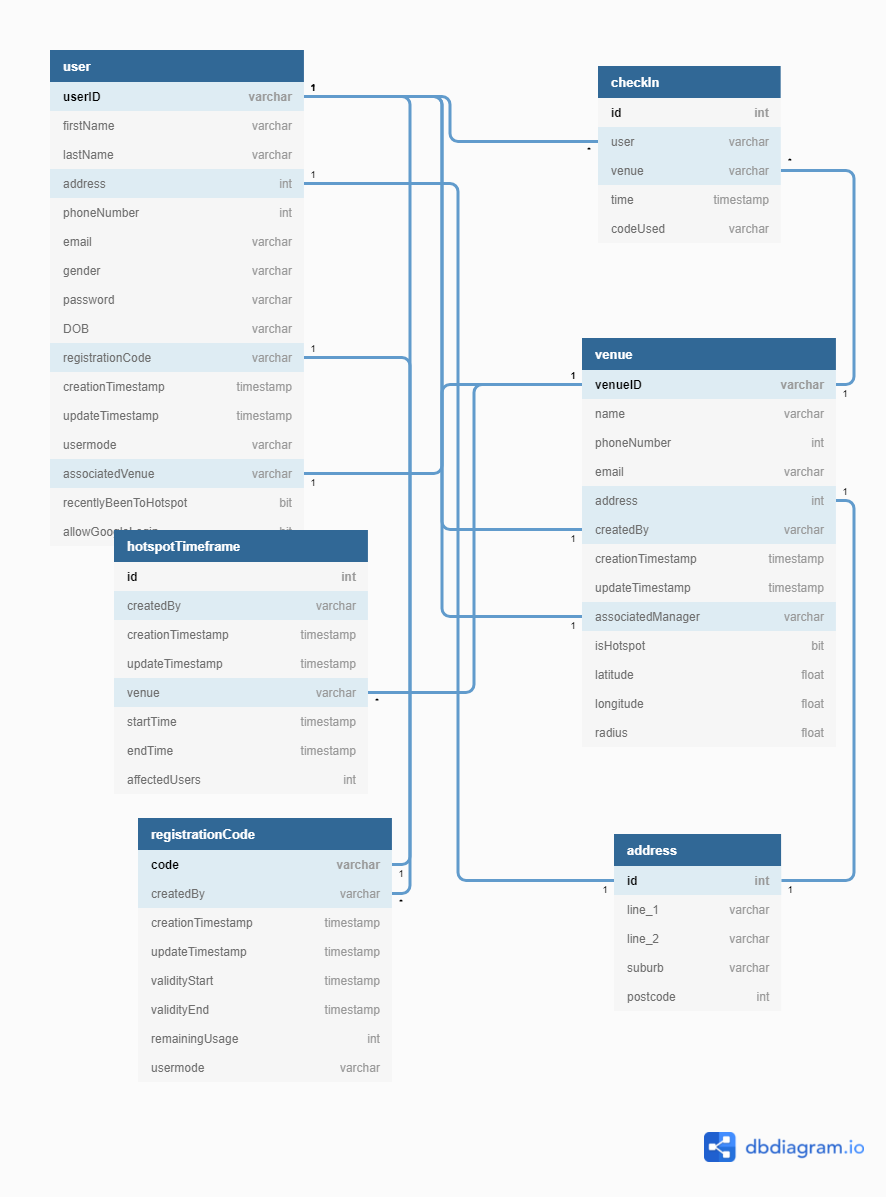
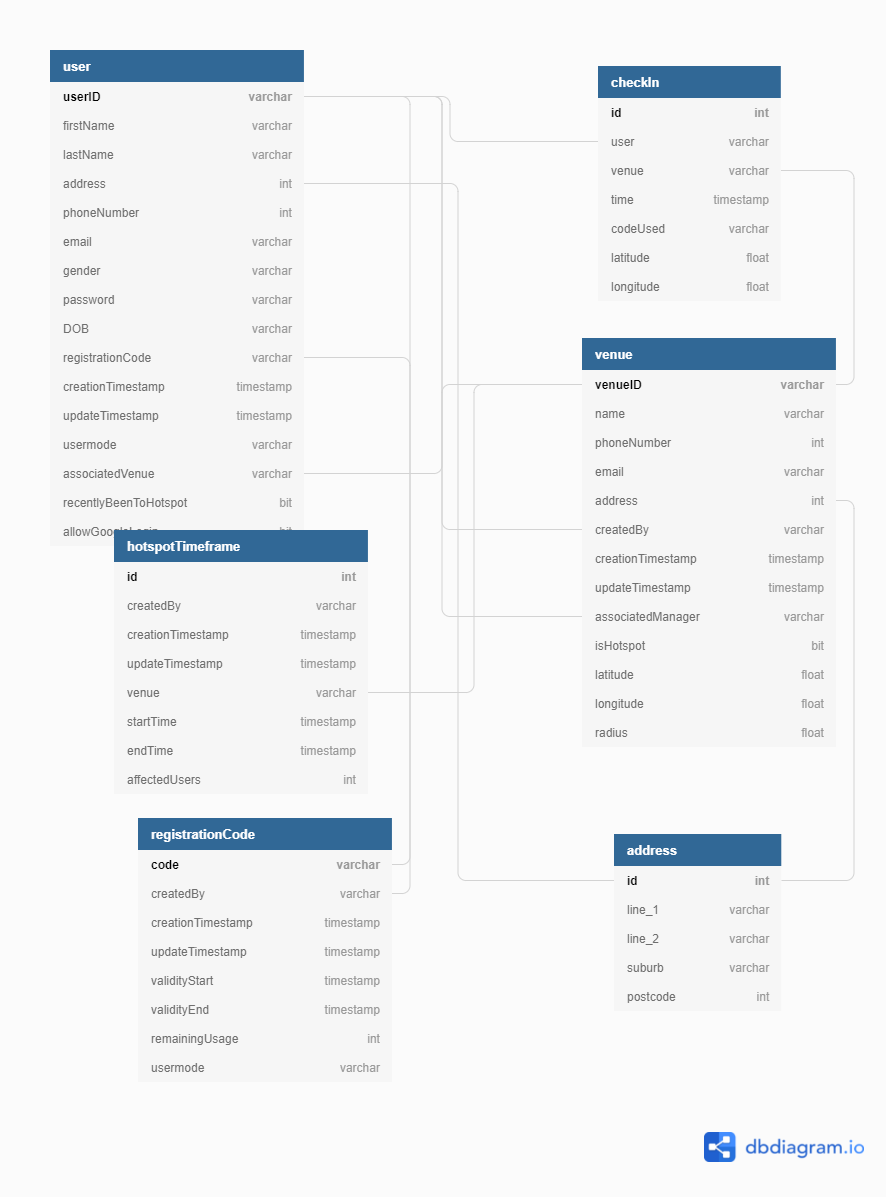
CS50 compatibility
Gmap markers and circles are actually working now

diff --git a/frontend/src/components/Gmap.vue b/frontend/src/components/Gmap.vue
@@ -7,29 +7,47 @@
       style="width: 100%; "
       :style="mapHeight"
     >
+      <!--      <GmapMarker-->
+      <!--        v-for="(m, index) in markers"-->
+      <!--        :key="index"-->
+      <!--        :position="m.position"-->
+      <!--        :clickable="true"-->
+      <!--        :draggable="true"-->
+      <!--        :shape="shape"-->
+      <!--        @click="center=m.position"-->
+      <!--      />-->
       <GmapMarker
-        v-for="(m, index) in markers"
+        v-for="(m, index) in checkInLocations"
         :key="index"
         :position="m.position"
         :clickable="true"
-        :draggable="true"
+        :draggable="false"
         :shape="shape"
         @click="center=m.position"
       />
+
+      <!--      <GmapCircle-->
+      <!--        :center="center"-->
+      <!--        :radius="200"-->
+      <!--        :draggable="true"-->
+      <!--        :editable="true"-->
+      <!--      />-->
       <GmapCircle
-        :center="center"
-        :radius="200"
-        :draggable="true"
-        :editable="true"
+        v-for="(m, index) in hotspotLocations"
+        :key="index"
+        :center="m.position"
+        :radius="m.radius"
+        :draggable="false"
+        :editable="false"
       />
     </GmapMap>
-
   </v-container>
 </template>
 
 <script>
 import * as GmapVue from 'gmap-vue'
 import Vue from 'vue'
+import axios from 'axios'
 
 export default {
   name: 'Gmap',
@@ -66,10 +84,110 @@ export default {
       shape: {
         coords: [10, 10, 10, 15, 15, 15, 15, 10],
         type: 'poly'
-      }
+      },
+      checkInLocations: [],
+      hotspotLocations: []
     }
   },
   computed: {
+  },
+  created() {
+    this.checkInTimelineGmap()
+    this.hotspotsGmap()
+  },
+  destroyed() {
+  },
+  methods: {
+    checkInTimelineGmap() {
+      // get session status first
+      var currentUserID
+      axios({
+        url: '/Action/GetSessionStatus',
+        method: 'get',
+        timeout: 8000,
+        headers: {
+          'Content-Type': 'application/json'
+        },
+        params: {
+        }
+      })
+        .then((res) => {
+          // got an ok response
+          // console.log(res)
+          currentUserID = res.data.userID
+          // get user check-in timeline, NESTED axios request
+          axios({
+            url: '/Action/GetUserCheckInHistory',
+            method: 'get',
+            timeout: 8000,
+            headers: {
+              'Content-Type': 'application/json'
+            },
+            params: {
+              'userID': currentUserID
+            }
+          })
+            .then((res1) => {
+              // got an ok response
+              // console.log(res1.data)
+              for (let i = 0; i < res1.data.length; ++i) {
+                this.checkInLocations.push({
+                  position: {
+                    lat: parseFloat(res1.data[i].latitude),
+                    lng: parseFloat(res1.data[i].longitude)
+                  }
+                })
+              }
+            })
+            .catch((err1) => {
+              // encountered error making request/error response
+              console.log(err1)
+              if (err1.response) {
+                console.log(err1.response)
+              }
+            })
+        })
+        .catch((err) => {
+          // encountered error making request/error response
+          console.log(err)
+          if (err.response) {
+            console.log(err.response)
+          }
+        })
+    },
+    hotspotsGmap() {
+      // get hotspots
+      axios({
+        url: '/Action/GetCurrentHotspots',
+        method: 'get',
+        timeout: 8000,
+        headers: {
+          'Content-Type': 'application/json'
+        },
+        params: {
+        }
+      })
+        .then((res) => {
+          // got an ok response
+          console.log(res.data)
+          for (let i = 0; i < res.data.length; ++i) {
+            this.hotspotLocations.push({
+              position: {
+                lat: parseFloat(res.data[i].latitude),
+                lng: parseFloat(res.data[i].longitude)
+              },
+              radius: parseFloat(res.data[i].radius)
+            })
+          }
+        })
+        .catch((err) => {
+          // encountered error making request/error response
+          console.log(err)
+          if (err.response) {
+            console.log(err.response)
+          }
+        })
+    }
   }
 }
 

diff --git a/backend/app.js b/backend/app.js
@@ -655,8 +655,9 @@ app.get('/Action/CheckIn', function(req, res, next) {
     res.sendStatus(400);
     return;
   }
-
   var checkInCode = req.query.checkInCode.toLowerCase();
+  var checkInLatitude;
+  var checkInLongitude;
 
   req.pool.getConnection(function(err, connection) {
     if (err) {
@@ -665,17 +666,33 @@ app.get('/Action/CheckIn', function(req, res, next) {
       return;
     }
     var queryString;
-    // should separate venue and codeUsed and check for validity but OUT OF TIME
-    queryString = "INSERT INTO `checkIn` (`user`, `venue`, `codeUsed`) VALUES (?, ?, ?);";
-    connection.query(queryString, [req.session.userID, checkInCode, checkInCode], function(err, rows, fields) {
-      connection.release();
+    // check-in code same as venueID; temporary solution
+    queryString = "SELECT venue.latitude, venue.longitude FROM venue WHERE venue.venueID = ?;";
+    connection.query(queryString, [checkInCode], function(err, rows, fields) {
+      // do not release
       if (err) {
         console.log(err);
-        // 520 unknown error; failing at insertion or other errors
-        res.redirect(520, '/')
+        res.sendStatus(500);
         return;
       }
-      res.redirect(200, '/')
+
+      // if ok, proceed to next nested query
+      checkInLatitude = rows[0].latitude;
+      checkInLongitude = rows[0].longitude;
+      var queryString1;
+      // should separate venue and codeUsed and check for validity but OUT OF TIME
+      queryString1 = "INSERT INTO `checkIn` (`user`, `venue`, `codeUsed`, `latitude`, `longitude`) VALUES (?, ?, ?, ?, ?);";
+      connection.query(queryString1, [req.session.userID, checkInCode, checkInCode, checkInLatitude, checkInLongitude], function(err1, rows1, fields1) {
+        // finally release
+        connection.release();
+        if (err1) {
+          console.log(err1);
+          // 520 unknown error; failing at insertion or other errors
+          res.redirect(520, '/')
+          return;
+        }
+        res.redirect(200, '/')
+      });
     });
   })
 });
@@ -818,7 +835,7 @@ app.get('/Action/GetUserCheckInHistory', function(req, res) {
       return;
     }
     //query
-    var query = "SELECT venue.venueID, venue.name, checkIn.time, checkIn.id FROM venue INNER JOIN checkIn ON venue.venueID = checkIn.venue WHERE checkIn.user = ?;";
+    var query = "SELECT venue.venueID, venue.name, checkIn.time, checkIn.id, venue.latitude, venue.longitude FROM venue INNER JOIN checkIn ON venue.venueID = checkIn.venue WHERE checkIn.user = ?;";
     connection.query(query, [targetUser], function(err, rows, fields) {
       connection.release(); // release connection
       if (err) {
@@ -907,7 +924,7 @@ app.get('/Action/GetCurrentHotspots', function(req, res) {
       return;
     }
     //query
-    var query = "SELECT venue.venueID, venue.name, venue.latitude, venue.longitude, hotspotTimeframe.affectedUsers, hotspotTimeframe.startTime, hotspotTimeframe.endTime FROM venue INNER JOIN hotspotTimeframe ON hotspotTimeframe.venue=venue.venueID WHERE hotspotTimeframe.endTime >= now() OR hotspotTimeframe.endTime = null;";
+    var query = "SELECT venue.venueID, venue.name, venue.latitude, venue.longitude, venue.radius, hotspotTimeframe.affectedUsers, hotspotTimeframe.startTime, hotspotTimeframe.endTime FROM venue INNER JOIN hotspotTimeframe ON hotspotTimeframe.venue=venue.venueID WHERE hotspotTimeframe.endTime >= now() OR hotspotTimeframe.endTime = null;";
     connection.query(query, function(err, rows, fields) {
       connection.release(); // release connection
       if (err) {
